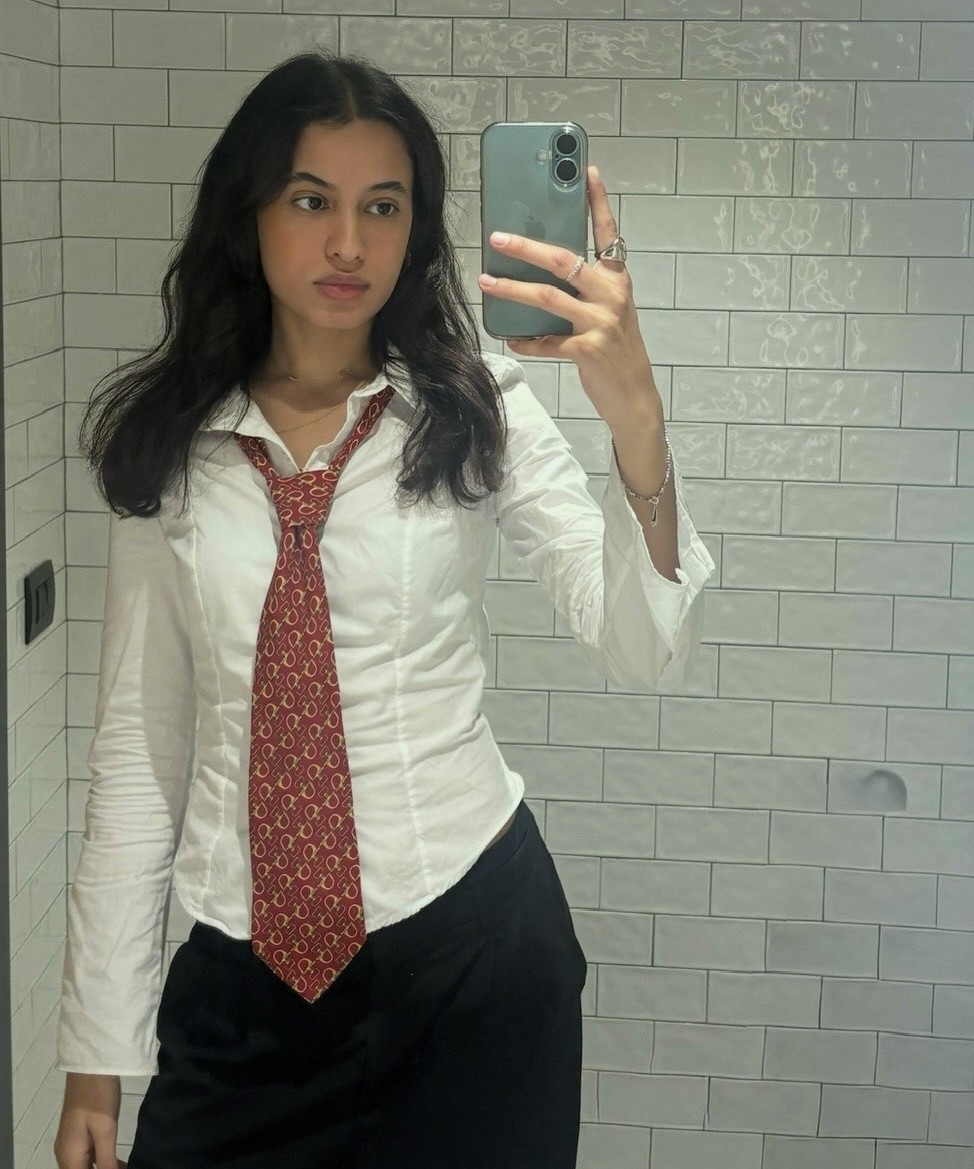
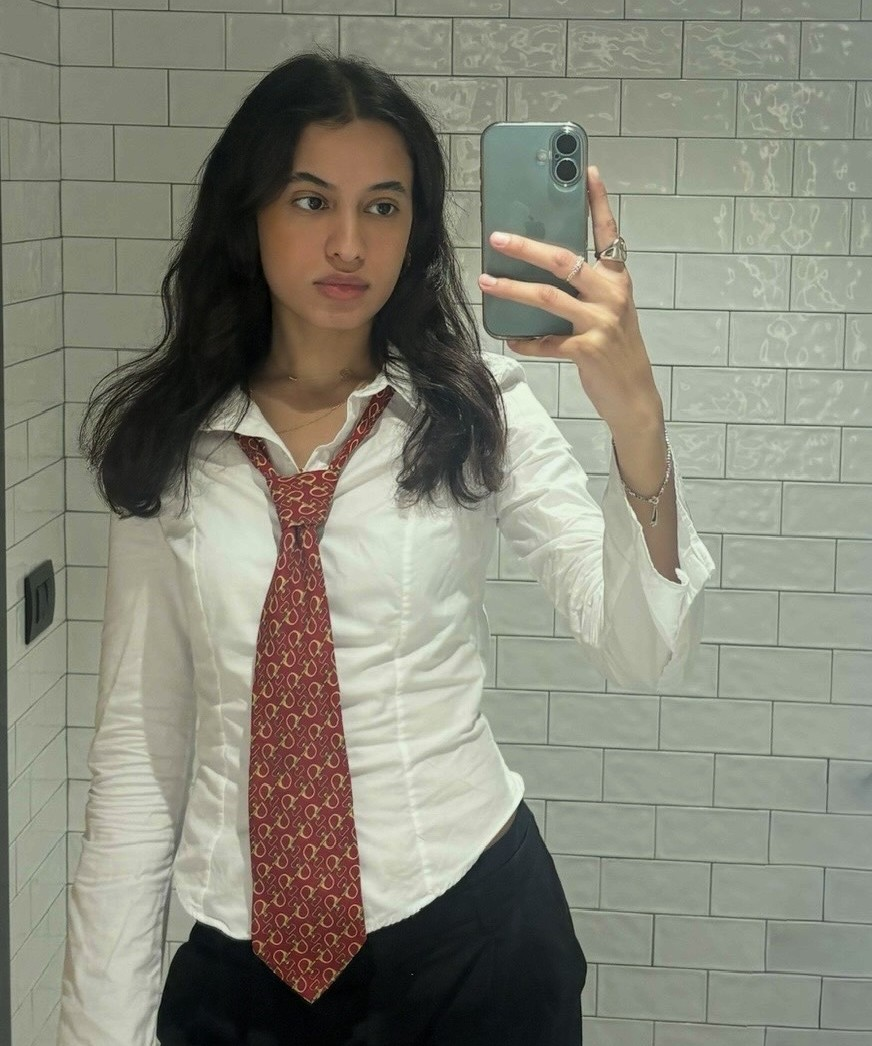
About: trim right side of mirror photo
Claude-Session: https://claude.ai/code/session_01TiTbivqudBPL4HuZbtZ9R4

diff --git a/index.html b/index.html
@@ -471,7 +471,7 @@
           </p>
         </div>
         <div class="about-photo">
-          <img src="esra.jpg?v=8" alt="Esra Elareibi portrait">
+          <img src="esra.jpg?v=9" alt="Esra Elareibi portrait">
         </div>
       </div>
     </section>
